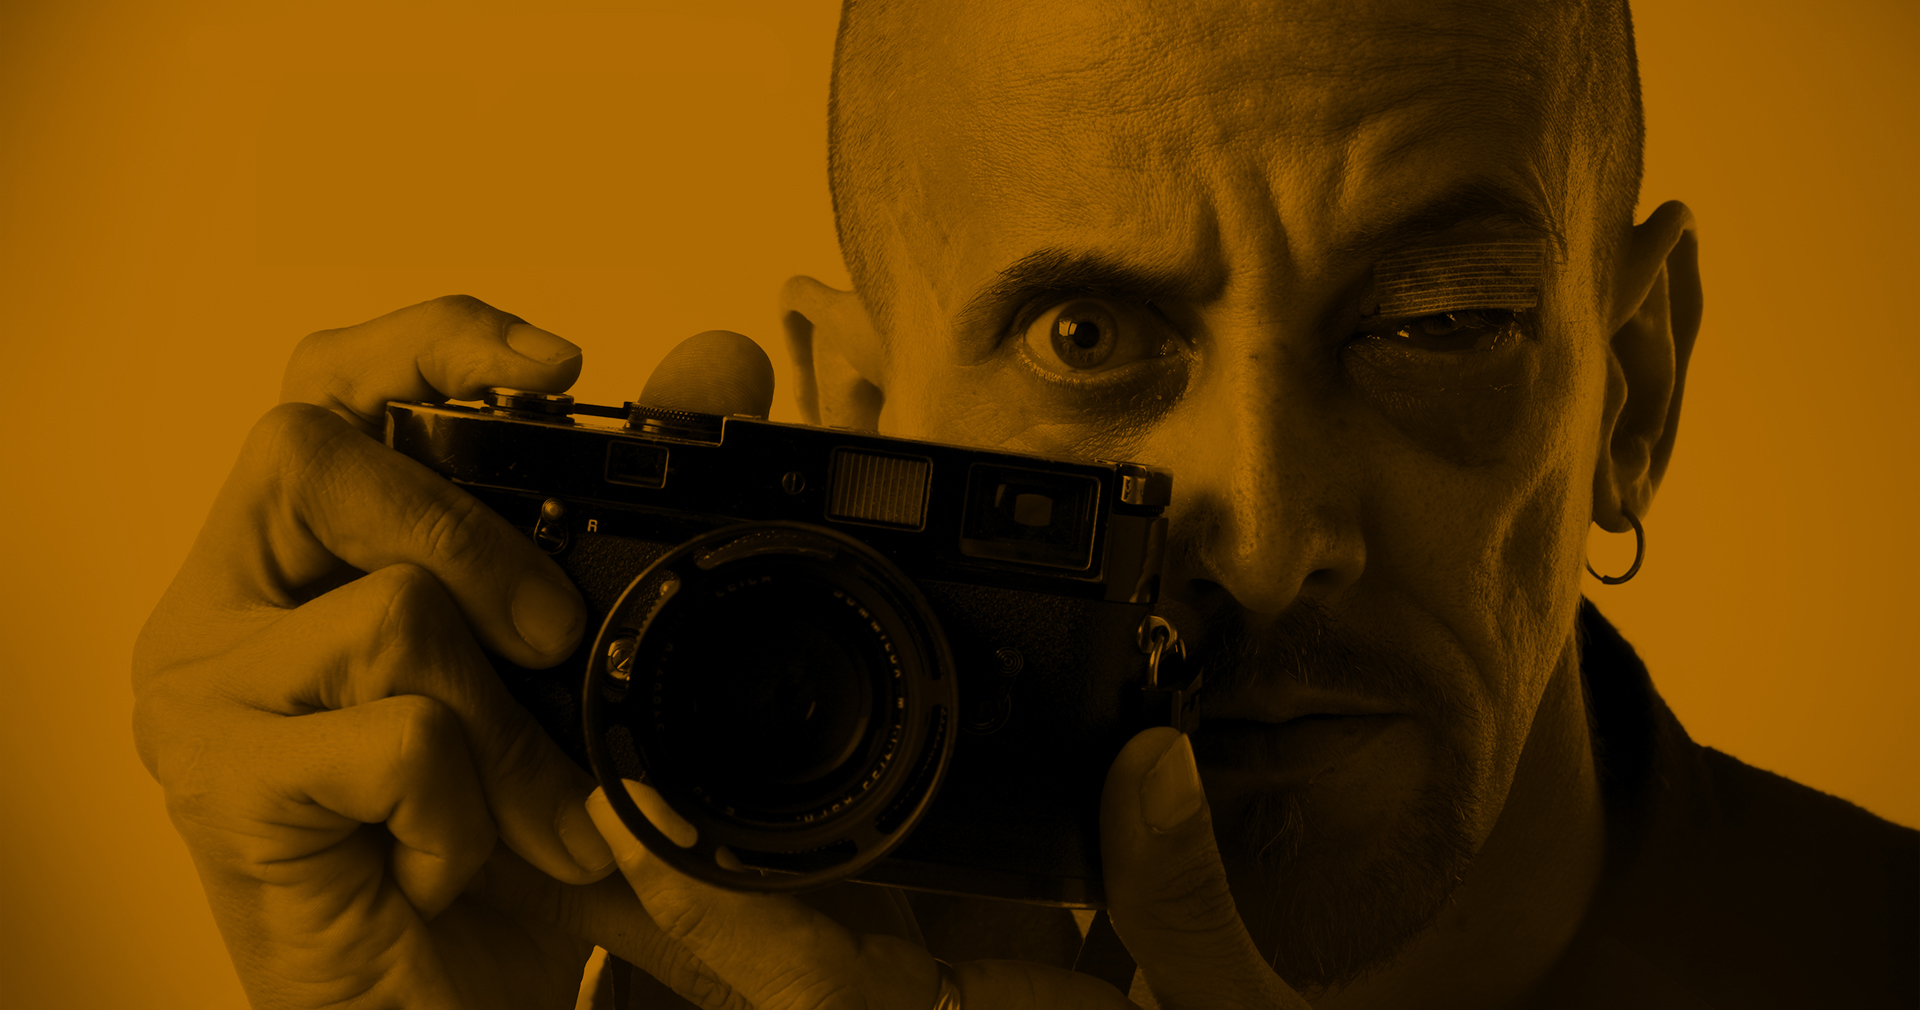
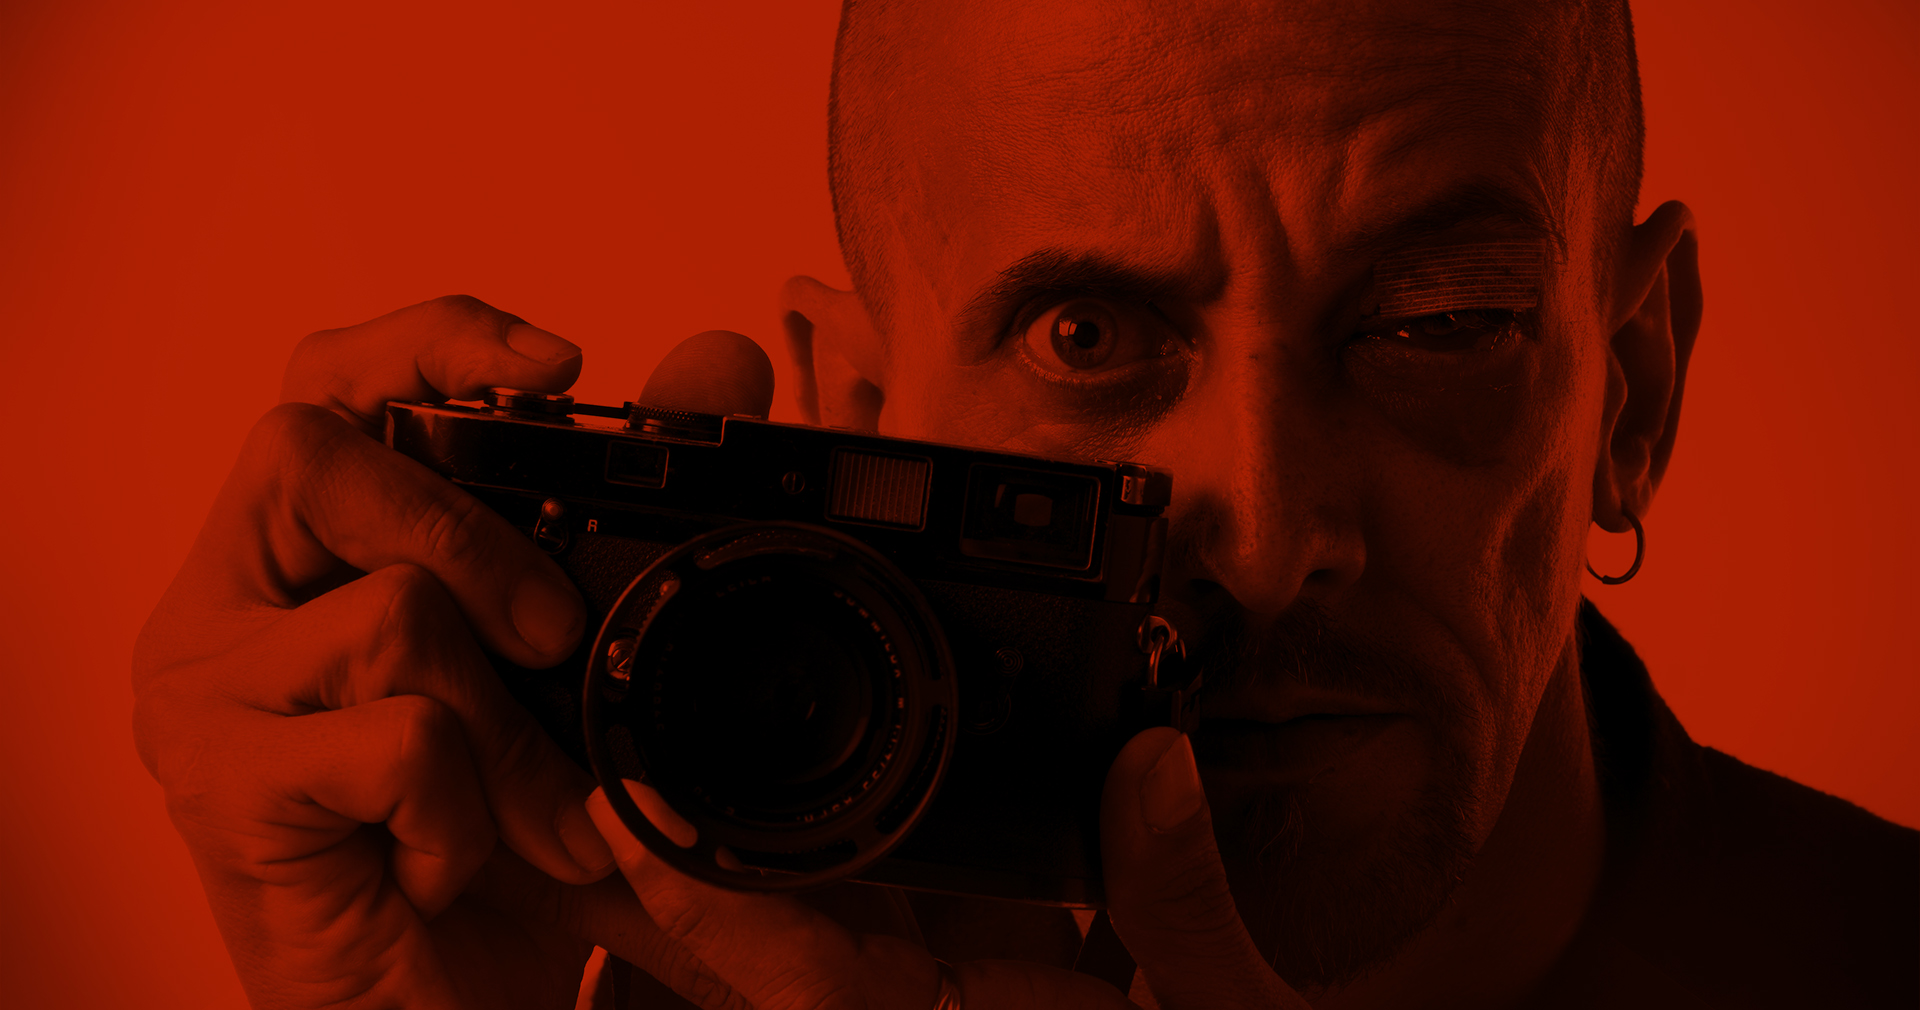
Add files via upload

diff --git a/css/style.css b/css/style.css
@@ -15,30 +15,34 @@ img{
 .container{
     padding: 0;
 }
-.button1{
+.button{
     text-transform: uppercase;
+    letter-spacing: 2px;
     color: #fff;
-    background-color: #de8802;
+    background-color: #e34332;
     border: 1px solid rgba(255, 255, 255, 0.5);
     display: inline-block;
     padding: 10px 20px;
     transition: all 0.3s ease-in 0s;
 }
-.button1:hover{
-    background: #efc481;
+.button:hover{
+    background: #ee9480;
     color: #fff;
     text-decoration: none;
 }
+.btn-wall{
+    opacity: 0;
+}
 .carousel-indicators li{
-    border: 1px solid #de8802;
+    border: 1px solid #e34332;
 }
 .carousel-indicators li.active{
-    background:#de8802;
+    background:#e34332;
 }
 
 .carousel-control.left, .carousel-control.right {
     background-image: none;
-    color: #de8802;
+    color: #e34332;
 }
 
 
@@ -71,7 +75,7 @@ img{
     color: #0a0a0a !important;
 }
 .navbar-nav li a:hover, .navbar-nav li.active a{
-    color: #de8802 !important;
+    color: #e34332 !important;
 }
 .navbar-default .navbar-toggle{
     border-style: none;
@@ -85,10 +89,6 @@ img{
     background-size: cover;
     height: 100%;
     text-align: center;
-}
-#home a{
-    font-size: 50px;
-    color: white;
 }
 .logo{
     height: 90%;
@@ -114,6 +114,10 @@ img{
     font-size: 12px;
     margin-bottom: 20px;
 }
+#presentation .paragraphe{
+    left: 50px;
+    opacity: 0;
+}
 #presentation p{
     font-family: 'Raleway', sans-serif;
     font-size: 16px;
@@ -129,7 +133,7 @@ img{
     margin: 0 auto;
 }
 .orange{
-    color: #de8802;
+    color: #e34332;
 }
 /* WALL */
 #wall{
@@ -199,6 +203,11 @@ img{
     text-align: center;
     padding-top: 10px;
 }
+.exemple-photo{
+    position: relative;
+    top: -50px;
+    opacity: 0;
+}
 .exemple-photo img{
     padding: 10px;
     cursor: pointer;
@@ -226,12 +235,12 @@ img{
 }
 /* Indicators active image style */
 .carousel .carousel-indicators .active img {
-    border: 2px solid #de8802;
+    border: 2px solid #e34332;
     opacity: 0.5;
 }
 /* PORTRAITS */
 #portraits{
-    background: #ae6a02;
+    background: #de2902;
     position: absolute;
     height: 100%;
     width: 100%;
@@ -265,7 +274,7 @@ img{
     padding-right: 0;
   }
 }
-#portraits div .button{
+#portraits div .btn-portraits{
     text-align: center;
 }
 #portraits a{
@@ -372,6 +381,7 @@ and (max-width : 568px) {
 and (min-width : 320px) 
 and (max-width : 568px) {
   .logo{
+    height: 85%;
     width: 280px;
     margin: 0 auto;  
     }

diff --git a/index.html b/index.html
@@ -43,7 +43,7 @@
                 <img src="images/logo.png" alt="logo">
             </div>
             <a href="#presentation">
-                <span class="glyphicon glyphicon-chevron-down"></span>
+                <img src="images/chevron_down.png" alt="chevron-down">
             </a>
         </section>
 
@@ -77,7 +77,7 @@
                     <span class="orange">sposjgkposdjgposdjgposgkspogjkspogjspdojgpsodjgspdogjspdogjspdogjspdogjspdogjsdpgojspdogsjdpgosjdgposjgpsodjgodpsjgpsodgjspdogjsopdgjsdopgjsdopgjspd</span><br><br>
                     </p>
                     <img src="images/exemple.jpg" alt="exemple">
-                    <a class="button1" data-toggle="modal" data-target="#Wall-modal">EN VOIR PLUS</a>
+                    <a class="button btn-wall" data-toggle="modal" data-target="#Wall-modal">EN VOIR PLUS</a>
                 </div>
             </div>
             <div id="Wall-modal" class="modal fade" role="dialog">
@@ -158,7 +158,7 @@
                         <img src="images/exemple03.jpg" alt="model03" data-toggle="modal" data-target="#Model-03">
                         <img src="images/exemple04.jpg" alt="model04" data-toggle="modal" data-target="#Model-04">
                     </div>
-                    <a class="button1" data-toggle="modal" data-target="#Model-modal">EN VOIR PLUS</a>
+                    <a class="button btn-model" data-toggle="modal" data-target="#Model-modal">EN VOIR PLUS</a>
                 </div>
                 <div id="Model-01" class="modal fade" role="dialog">
                     <div class="modal-dialog">
@@ -270,8 +270,8 @@
                 <div class="title">
                     <img src="images/portraits.png" alt="wall">
                 </div>
-                <div class="button container">
-                    <a class="button1" data-toggle="modal" data-target="#Portraits-modal">EN VOIR PLUS</a>
+                <div class="btn-portraits container">
+                    <a class="button" data-toggle="modal" data-target="#Portraits-modal">EN VOIR PLUS</a>
                 </div>
                 <div id="Portraits-modal" class="modal fade" role="dialog">
                     <div class="modal-dialog">

diff --git a/js/script.js b/js/script.js
@@ -12,8 +12,25 @@ $(function(){
 
 });
 
+/* Desactiver le clic droit */
 function clickIE4(){ if (event.button==2){ return false; } } function clickNS4(e){ if (document.layers||document.getElementById&&!document.all){
      if (e.which==2||e.which==3){ return false; } } } 
      if (document.layers){ document.captureEvents(Event.MOUSEDOWN); document.onmousedown=clickNS4; } 
      else if (document.all&&!document.getElementById){ document.onmousedown=clickIE4; } document.oncontextmenu=new 
      Function("return false")
+
+
+/* Animer les elements à l'affichage */
+$(window).scroll(function () { 
+
+    if ($(this).scrollTop() > 200 && !$(this).data('revealed')) {
+        $('.paragraphe').delay(500).animate({ left: 0, opacity: 1 }, 400);
+    }
+    if ($(this).scrollTop() > 1000 && !$(this).data('revealed')) {
+        $('.btn-wall').delay(500).animate({ opacity: 1 }, 400);
+    }
+    if ($(this).scrollTop() > 1800 && !$(this).data('revealed')) {
+        $('.exemple-photo').delay(500).animate({ top: 0, opacity: 1 }, 400);
+    }
+});
+
